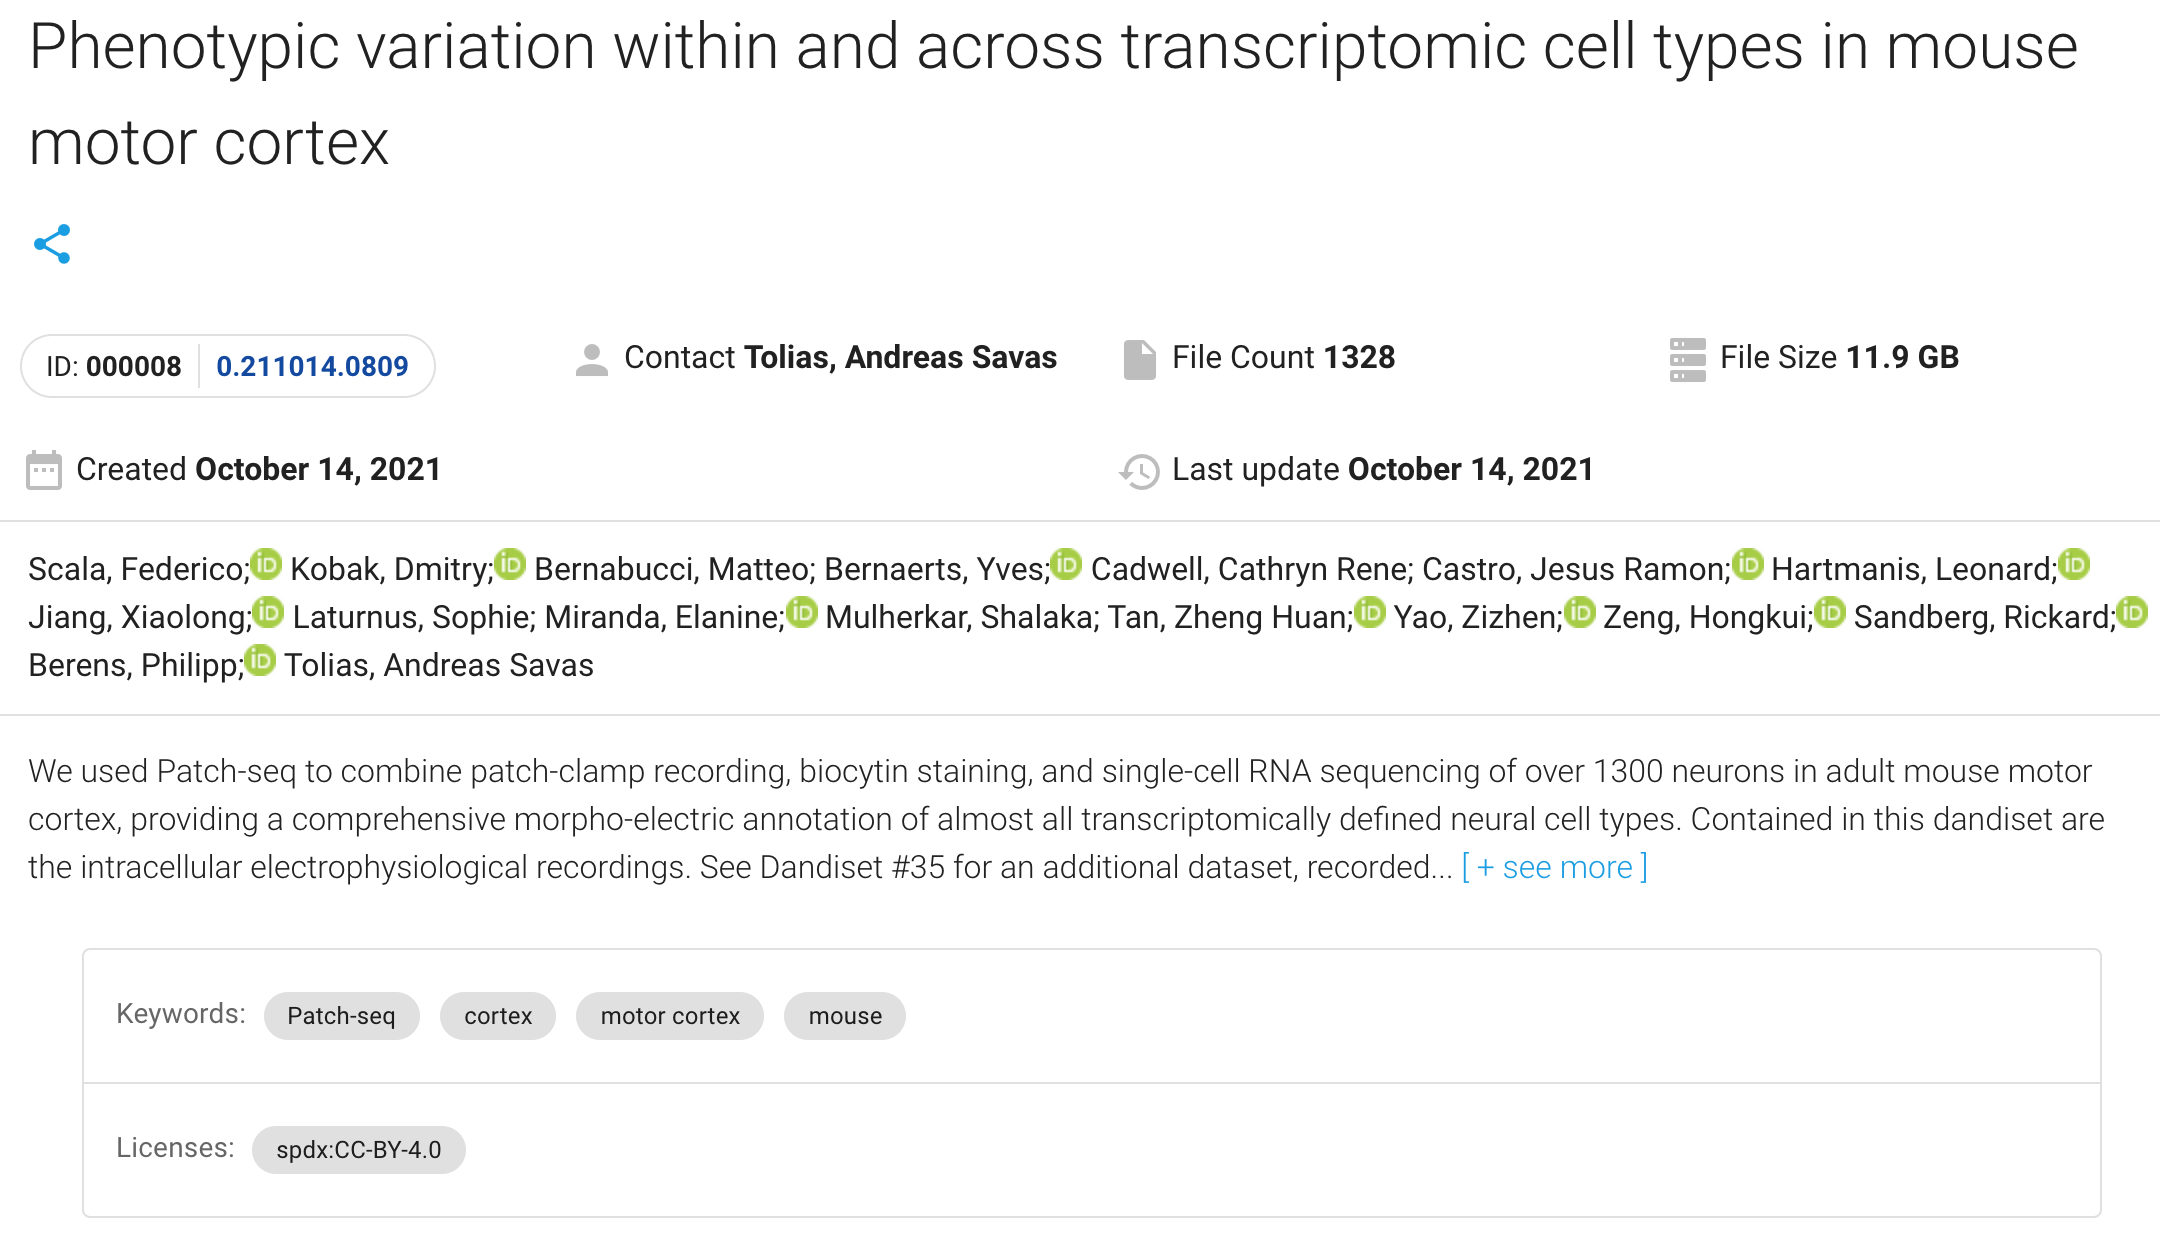
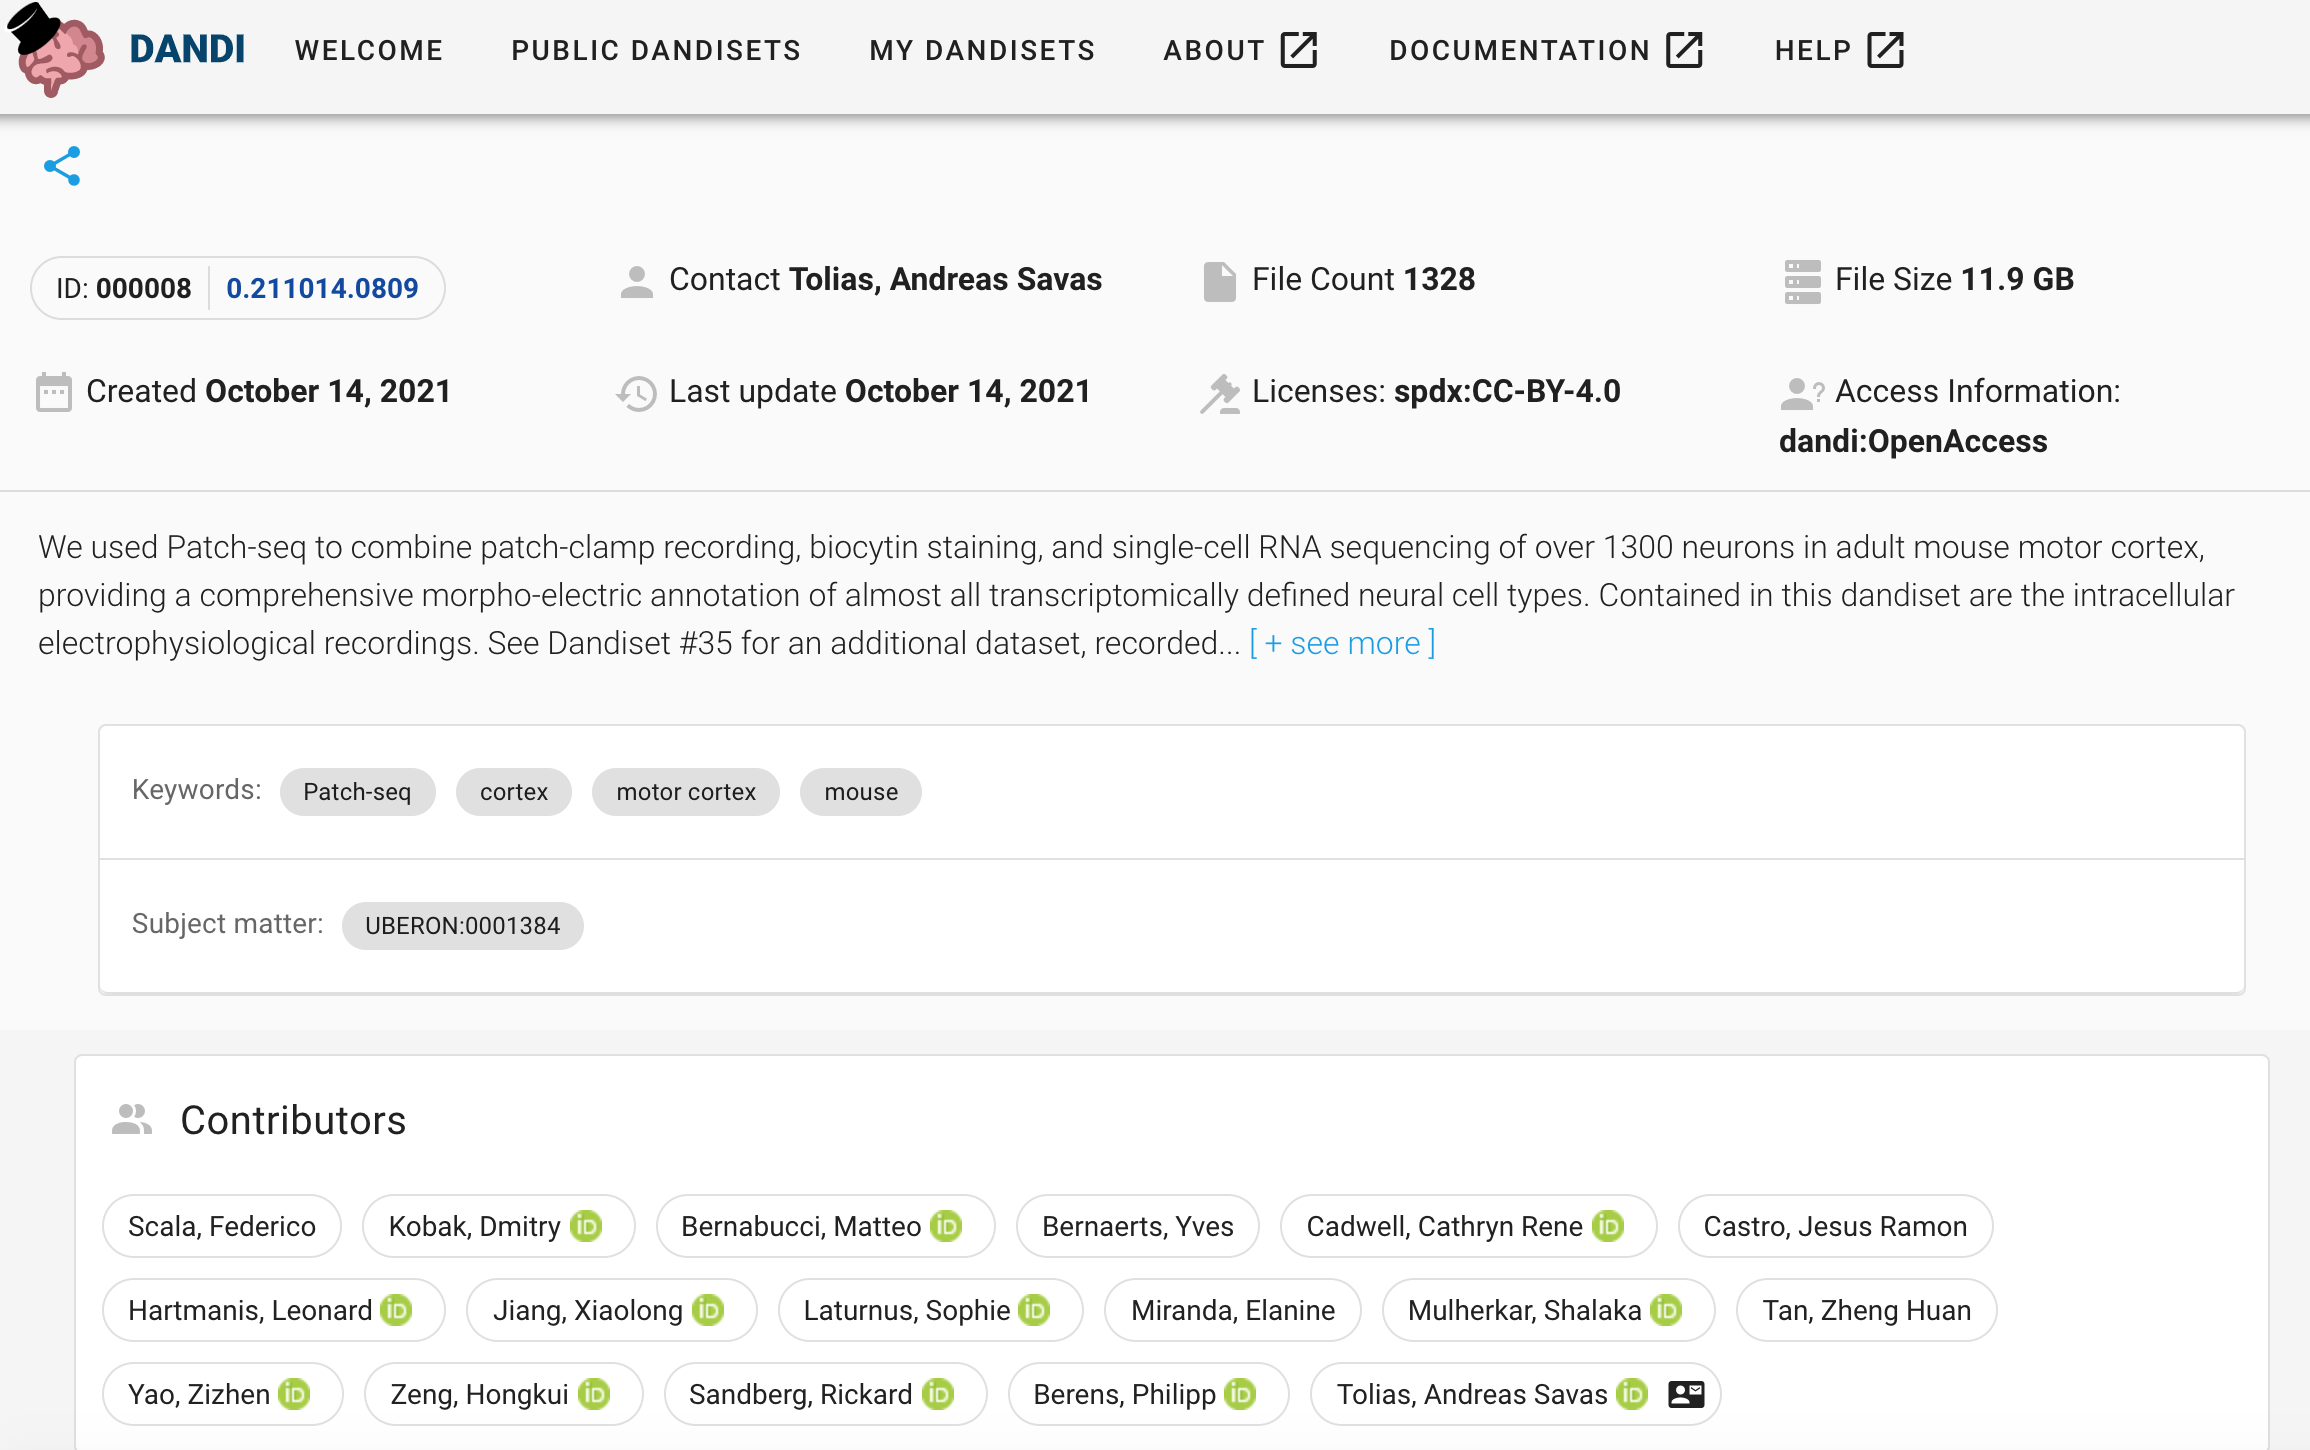
new lp updates

diff --git a/docs/11_using_dandi_web.md b/docs/11_using_dandi_web.md
@@ -39,7 +39,7 @@ style="width: 60%; height: auto; display: block; margin-left: auto;  margin-righ
 #### `Dandisets` metadata
 
 The landing page of each `Dandiset` contains important information including 
-metadata provided by the owners such as contact information, description, license and keywords, or simple statistics for `Dandiset` such as size of the `Dandiset` and number of files.
+metadata provided by the owners such as contact information, description, license, access information and keywords, or simple statistics for `Dandiset` such as size of the `Dandiset` and number of files.
 
 <img
 src="./img/web_dandiset_lp.png"
@@ -47,12 +47,9 @@ alt="web_dandiset_lp"
 style="width: 60%; height: auto; display: block; margin-left: auto;  margin-right: auto;"/>
 
 If you scroll down, you will also find:
-- Access Information
 - Assets Summary
 - Funding Information
-- Dandiset creation date and time
-- License
-- Manifest Location
+- Related Resources
 
 More detailed information you can find after choosing `Metadata` on the right side panel. 
 
